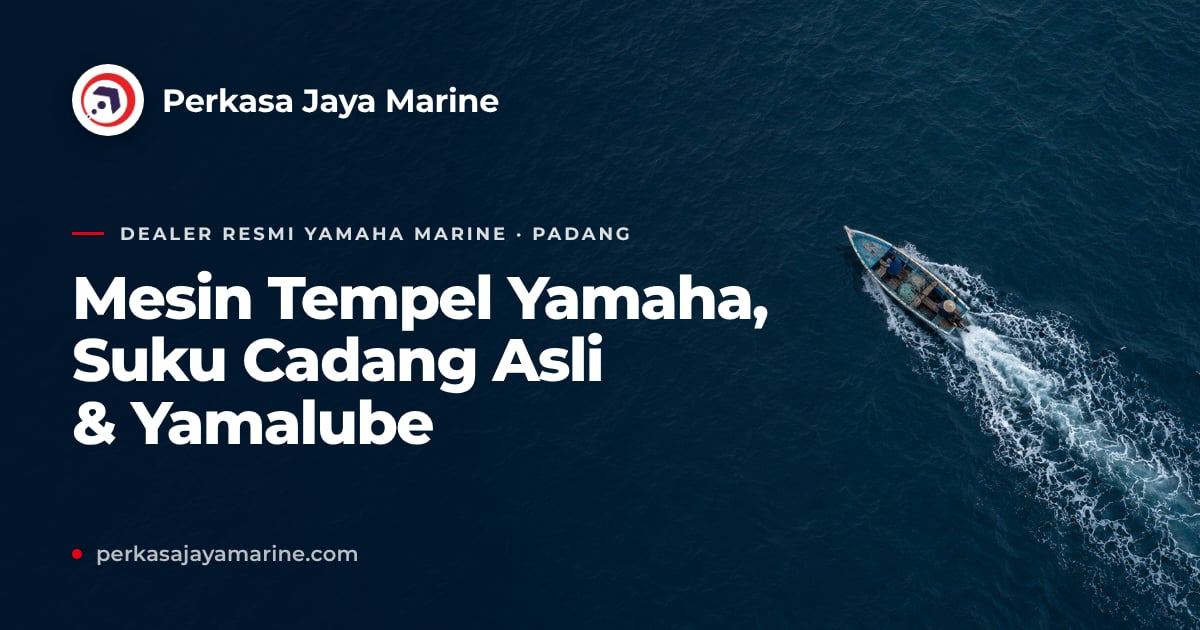
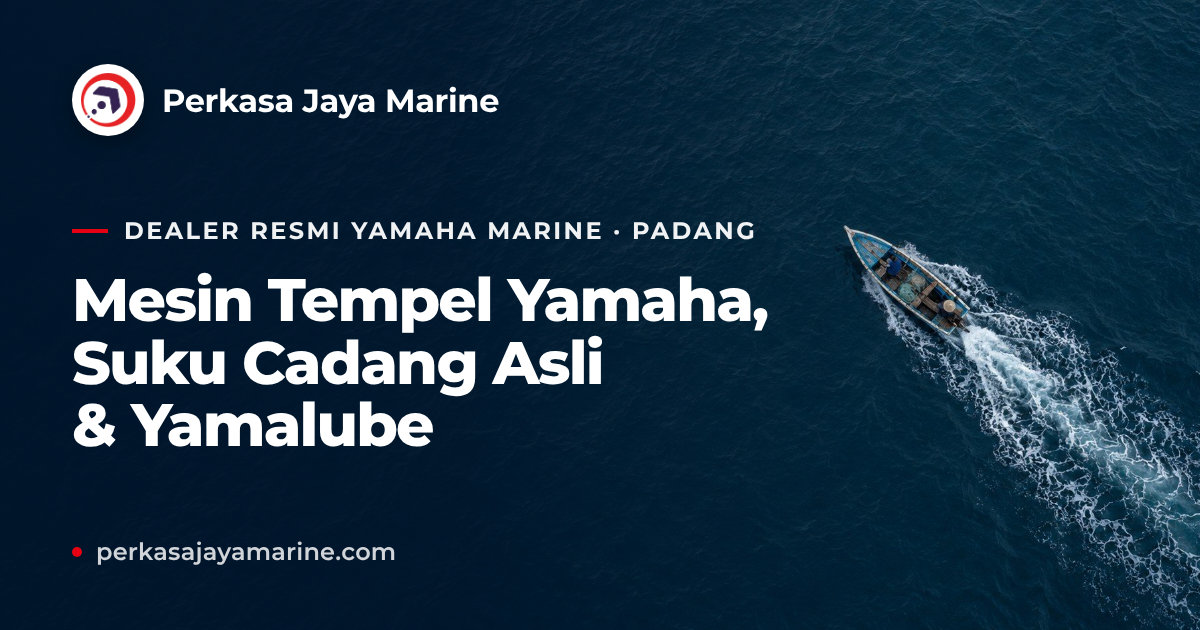
Refine link-preview card after Fable/Opus review
- Larger, brighter eyebrow ("Dealer Resmi Yamaha Marine · Padang") and
  URL so they read at real WhatsApp phone width; thicker red rule
- Cleaner export: JPEG q85 with 4:4:4 chroma (135KB, under WhatsApp's
  300KB large-preview limit) so the red and type edges stay crisp
- og:description now says "Dealer Resmi" to match the card, title and
  alt text (it said "Distributor Resmi")

Claude-Session: https://claude.ai/code/session_01LZ7XGwiZUy94bYm72zyRqE

diff --git a/src/app/layout.js b/src/app/layout.js
@@ -32,7 +32,7 @@ export const metadata = {
     alternateLocale: 'en_US',
     url: 'https://perkasajayamarine.com',
     title: 'Perkasa Jaya Marine - Yamaha Marine Dealer Padang',
-    description: 'Distributor Resmi Yamaha Marine di Padang. Jual Mesin Tempel, Sparepart, dan Service. Authorized Dealer for Yamaha Outboards in West Sumatra.',
+    description: 'Dealer Resmi Yamaha Marine di Padang. Jual Mesin Tempel, Sparepart, dan Service. Authorized Dealer for Yamaha Outboards in West Sumatra.',
     siteName: 'Perkasa Jaya Marine',
     images: [
       {
